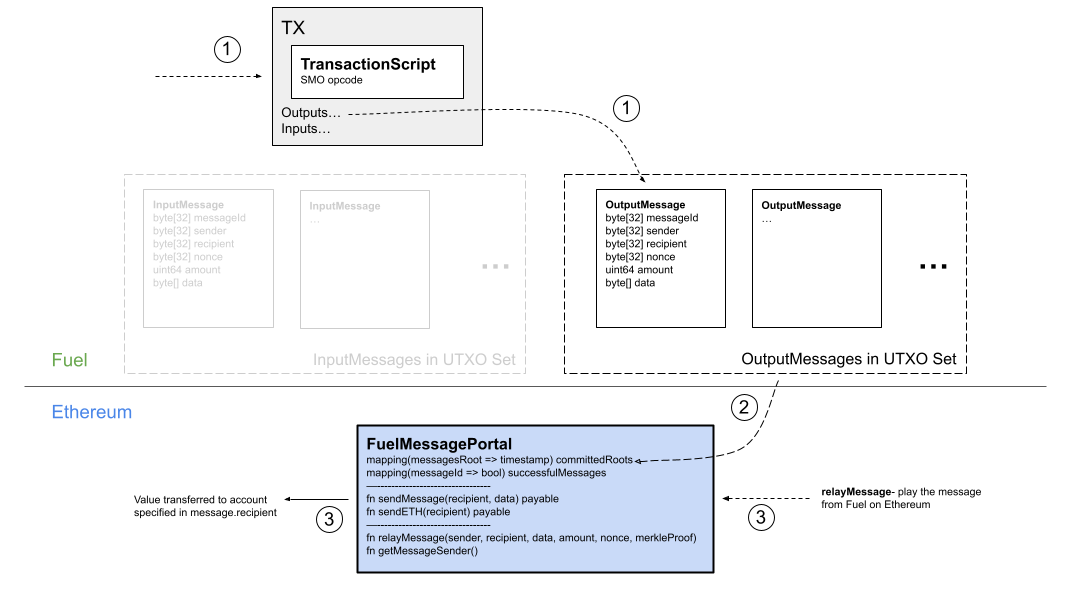
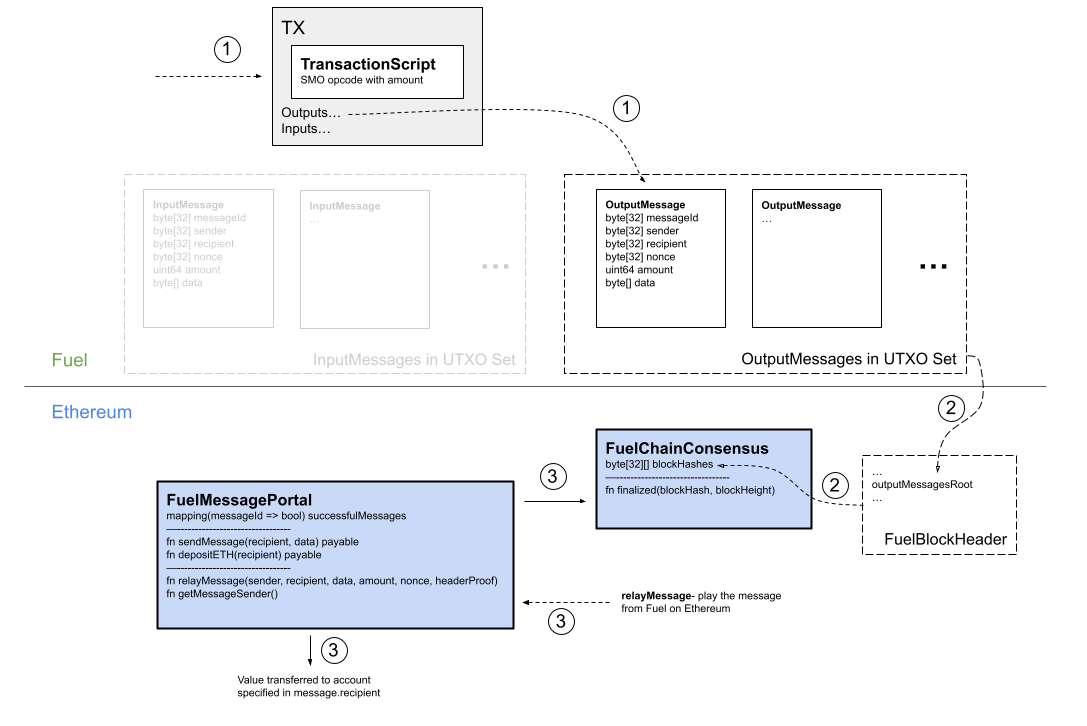
Documentation cleanup (#50)
* function name change

* documentation update

* Update docs/design_docs.md

---------

diff --git a/bridge-fungible-token/tests/harness.rs b/bridge-fungible-token/tests/harness.rs
@@ -301,7 +301,7 @@ mod success {
 
         let call_response = test_contract
             .methods()
-            .withdraw_to(Bits256(*wallet.address().hash()))
+            .withdraw(Bits256(*wallet.address().hash()))
             .tx_params(custom_tx_params)
             .call_params(call_params)
             .expect("Call param Error")
@@ -403,7 +403,7 @@ mod success {
 
         let call_response = test_contract
             .methods()
-            .withdraw_to(Bits256(*wallet.address().hash()))
+            .withdraw(Bits256(*wallet.address().hash()))
             .tx_params(custom_tx_params)
             .call_params(call_params)
             .expect("Call param Error")
@@ -865,7 +865,7 @@ mod revert {
         // The following withdraw should fail since it doesn't meet the minimum withdraw (underflow error)
         test_contract
             .methods()
-            .withdraw_to(Bits256(*wallet.address().hash()))
+            .withdraw(Bits256(*wallet.address().hash()))
             .tx_params(custom_tx_params)
             .call_params(call_params)
             .expect("Call param Error")

diff --git a/docs/design_docs.md b/docs/design_docs.md
@@ -16,7 +16,7 @@ The ETH bridge facilitates the transfer of ETH from Ethereum to be represented a
 
 ### ETH Bridge Deposit
 
-1. User starts a deposit by calling `sendETH()` on `FuelMessagePortal` which accepts an amount of ETH that gets custodied while bridged
+1. User starts a deposit by calling `depositETH()` on `FuelMessagePortal` which accepts an amount of ETH that gets custodied while bridged
 1. The Fuel client sees an outgoing message event emitted on the `FuelMessagePortal` and adds a corresponding `InputMessage` to the UTXO set with the designated recipient
 1. The recipient can now spend the amount value in the input message like any other input
 
@@ -25,8 +25,8 @@ The ETH bridge facilitates the transfer of ETH from Ethereum to be represented a
 ### ETH Bridge Withdrawal
 
 1. User starts a withdrawal by creating a transaction that outputs an `OutputMessage` with a specific amount of ETH
-1. All `OutputMessages` are committed to Ethereum via a merkle tree of all `OutputMessage` `messageId`s by a designated committer (either a multisig or future consensus contract)
-1. After a finalization period, the user calls to the `FuelMessagePortal` with a merkle proof of the previously sent message which then sends the ETH to the message recipient
+1. The `messageId`s from all `OutputMessages` in a block are put into a merkle tree and included in the block header, which gets committed to the `FuelChainConsensus` contracts via the consensus mechanism
+1. After a finalization period, the user calls `relayMessage` on the `FuelMessagePortal` contract with a block inclusion proof that is cross verified with the `FuelChainConsensus` contract, which then sends the ETH to the message recipient
 
 ![ETH Withdrawal Diagram](/docs/imgs/FuelMessagingETHWithdraw.png)
 
@@ -38,19 +38,19 @@ The ERC-20 bridge facilitates the transfer of ERC-20 tokens from Ethereum to be 
 
 1. User starts a deposit by calling the `deposit()` function on the `FuelERC20Gateway` (after they have approved token transfer to `FuelERC20Gateway`)
 1. The `FuelERC20Gateway` transfers tokens to itself to custody while they are bridged
-1. The `FuelERC20Gateway` creates a message in the `FuelMessagePortal` to be relayed on Fuel with the `MessageToFungibleTokenPredicate` as the recipient so that anyone can spend the `InputMessage` on a user's behalf but with guarantees that the transaction is built as it’s supposed to
+1. The `FuelERC20Gateway` creates a message in the `FuelMessagePortal` to be relayed on Fuel with the `MessageToFungibleTokenPredicate` as the recipient so that anyone can spend the `InputMessage` on the user's behalf but with guarantees that the spending transaction correctly relays the message data
 1. The Fuel client sees an outgoing message event emitted on the `FuelMessagePortal` and adds a corresponding `InputMessage` to the UTXO set with the designated recipient predicate
-1. A transaction is built and submitted by either the user or a relayer service that meets the requirements of the `MessageToFungibleTokenPredicate` recipient
-1. A single call is made from the transaction script to the intended target Fuel token contract specified in the messages data field. This function verifies the sender and predicate recipient of the `InputMessage`, parses the data from the `InputMessage` data field and mints the appropriate amount of tokens
+1. A transaction is built and submitted by either the user or a third party that meets the requirements of the `MessageToFungibleTokenPredicate` recipient
+1. A single call is made from the transaction script to the intended target Fuel token contract specified in the messages data field. This function verifies the sender of the `InputMessage`, parses the data from the `InputMessage` data field and mints the appropriate amount of tokens
 
 ![ERC20 Deposit Diagram](/docs/imgs/FuelMessagingERC20Deposit.png)
 
 ### ERC-20 Bridge Withdrawal
 
-1. User starts a withdrawal by calling the `FuelMyToken` contract sending some coins to withdraw along with it
-1. The `FuelMyToken` contract looks to see what coins it was sent, burns them and then creates an `OutputMessage` via the `SMO` opcode
-1. All `OutputMessages` are committed to Ethereum via a merkle tree of all `OutputMessage` `messageId`s by a designated committer (either a multisig or future consensus contract)
-1. After a finalization period, the user calls to the `FuelMessagePortal` with a merkle proof of the previously sent message which then calls to the `FuelERC20Gateway` with the abi specified in the message data
+1. User starts a withdrawal by calling `withdraw` on the token specific `BridgeFungibleToken` contract, sending the coins to withdraw along with it
+1. The `BridgeFungibleToken` contract looks to see what coins it was sent, burns them and then creates an `OutputMessage` via the `SMO` opcode
+1. The `messageId`s from all `OutputMessages` in a block are put into a merkle tree and included in the block header, which gets committed to the `FuelChainConsensus` contracts via the consensus mechanism
+1. After a finalization period, the user calls `relayMessage` on the `FuelMessagePortal` contract with a block inclusion proof that is cross verified with the `FuelChainConsensus` contract, which then calls to the `FuelERC20Gateway` with the abi specified in the message data
 1. The `FuelERC20Gateway` verifies it’s being called by the `FuelMessagePortal` and releases the specified amount of tokens to the specified address
 
 ![ERC20 Withdrawal Diagram](/docs/imgs/FuelMessagingERC20Withdraw.png)
